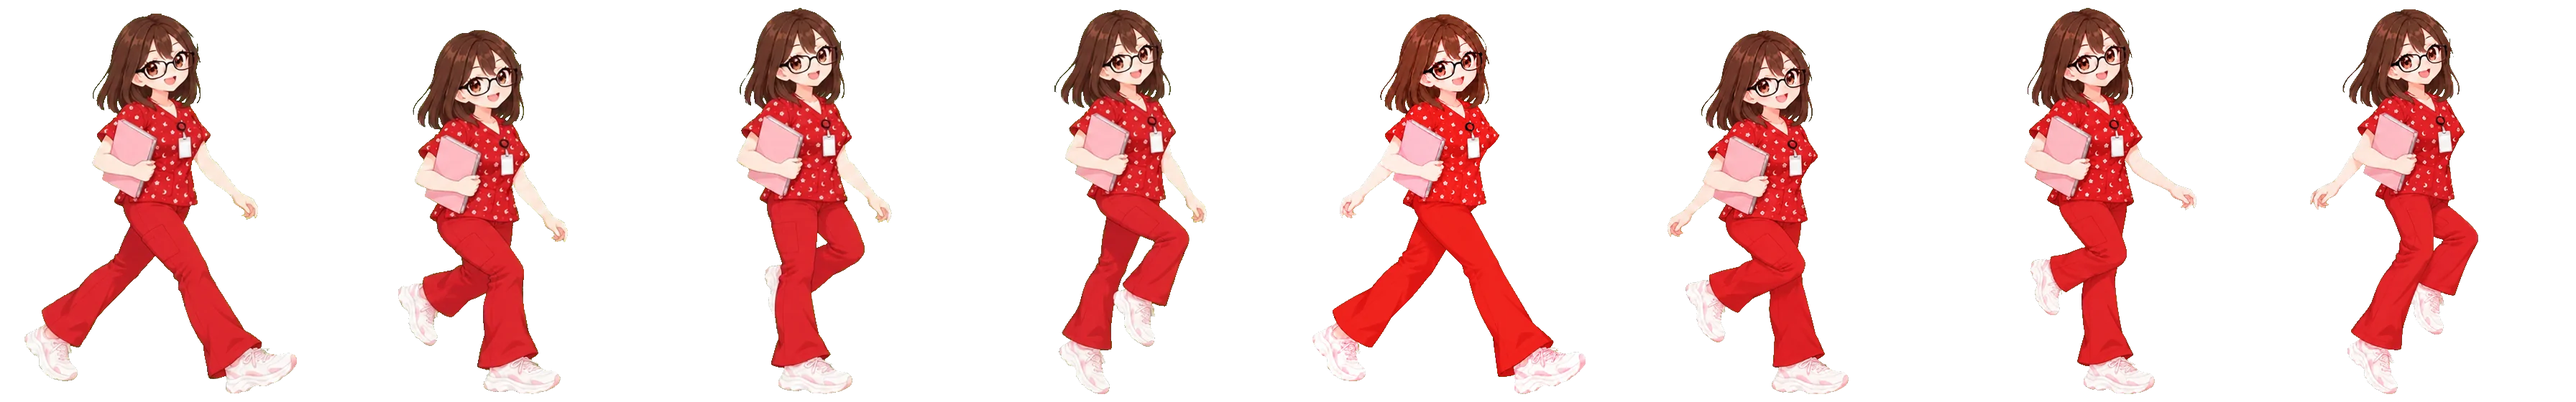
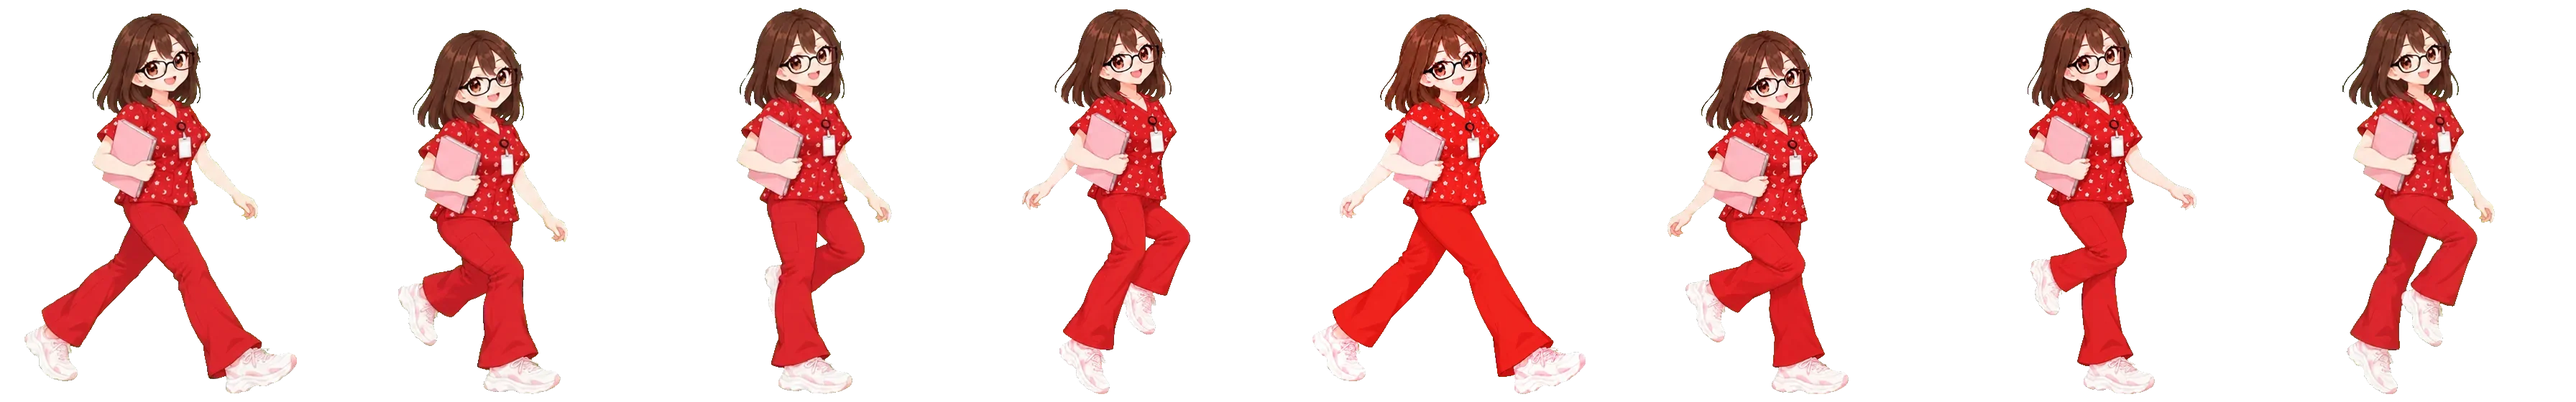
Caminata en el orden correcto de piernas y más pausada
Tras el paso, la pierna que se balancea hacia adelante es la de atrás (no
la misma que acaba de pisar); el ciclo dura 2 s y el avance acompaña.

diff --git a/libro.css b/libro.css
@@ -1055,7 +1055,7 @@ html[data-cielo="noche"] .vida-cielo{background:linear-gradient(180deg,hsl(calc(
 .vida-suelo{position:absolute;left:-5%;right:-5%;bottom:0;height:22%;z-index:-1;border-radius:50% 50% 0 0/30% 30% 0 0;background:linear-gradient(180deg,#f7d9e9,#e9b8d3);box-shadow:inset 0 6px 0 rgba(255,255,255,.6)}
 html[data-cielo="noche"] .vida-suelo{background:linear-gradient(180deg,#4a3a7c,#2c2356)}
 .vida-huellas{position:absolute;left:0;right:0;bottom:12%;height:4px;z-index:-1;background:repeating-linear-gradient(90deg,rgba(199,76,134,.35) 0 10px,transparent 10px 26px);-webkit-mask:linear-gradient(90deg,#000 calc(var(--hora)*80% + 6%),transparent calc(var(--hora)*80% + 8%));mask:linear-gradient(90deg,#000 calc(var(--hora)*80% + 6%),transparent calc(var(--hora)*80% + 8%))}
-.vida-andante{--x:4%;position:absolute;left:var(--x);bottom:8%;height:72%;aspect-ratio:.8;transition:left 2.6s linear}   /* = 2 ciclos de caminata */
+.vida-andante{--x:4%;position:absolute;left:var(--x);bottom:8%;height:72%;aspect-ratio:.8;transition:left 4s linear}   /* = 2 ciclos de caminata */
 .vida-img{position:absolute;inset:0;opacity:0;transition:opacity .7s;filter:drop-shadow(0 8px 8px rgba(60,30,60,.35))}
 .vida-img.visible{opacity:1}
 /* ciclo de caminata: 6 cuadros; quieta, se queda en el primero */

diff --git a/index.html b/index.html
@@ -12,7 +12,7 @@
   <link rel="preconnect" href="https://fonts.googleapis.com"><link rel="preconnect" href="https://fonts.gstatic.com" crossorigin>
   <link rel="stylesheet" href="https://fonts.googleapis.com/css2?family=Cinzel:wght@500;700&family=Cormorant+Garamond:ital,wght@0,500;0,600;1,500&display=swap">
   <link rel="stylesheet" href="styles.css?v=20261002a">
-  <link rel="stylesheet" href="libro.css?v=20261003c">
+  <link rel="stylesheet" href="libro.css?v=20261003d">
   <link rel="stylesheet" href="tema-claro.css?v=20261002a">
   <link rel="stylesheet" href="intro.css?v=20260929f">
   <link rel="icon" href="assets/emblema-estrella.png">
@@ -32,7 +32,7 @@
   <script src="fondo-acuarela.js?v=20261002a" defer></script>
   <script src="secciones.js?v=20261002a" defer></script>
   <script src="libro.js?v=20261002a" defer></script>
-  <script src="cuento.js?v=20261003c" defer></script>
+  <script src="cuento.js?v=20261003d" defer></script>
   <script src="vendor/gsap.min.js" defer></script>
   <script src="vendor/MotionPathPlugin.min.js" defer></script>
   <script src="intro-trazos.js?v=20260929c" defer></script>

diff --git a/cuento.js b/cuento.js
@@ -214,8 +214,8 @@
   ];
   // cada etapa camina de verdad: una tira de 6 cuadros (ciclo de caminata) que se recorre con steps()
   const tiraDe = s => 'assets/cuento/caminata/' + s + '.webp';
-  // ciclo de caminata completo en 1,3 s; cada cuadro se funde brevemente con el siguiente
-  const CICLO = 1300, CICLOS_POR_TRAMO = 2, TRAMO = CICLO * CICLOS_POR_TRAMO;
+  // ciclo de caminata completo en 2 s (paso tranquilo); cada cuadro se funde brevemente con el siguiente
+  const CICLO = 2000, CICLOS_POR_TRAMO = 2, TRAMO = CICLO * CICLOS_POR_TRAMO;
   const ponerCuadro = (capa, p) => {   // p: avance en cuadros (puede tener decimales)
     const n = cuadrosDe[capa.dataset.etapa] || 6, [c1, c2] = capa.children, k = Math.floor(p) % n, f = p - Math.floor(p), mezcla = Math.max(0, (f - .7) / .3);   // fundido corto: sin piernas dobles
     capa.style.setProperty('--n', n);
